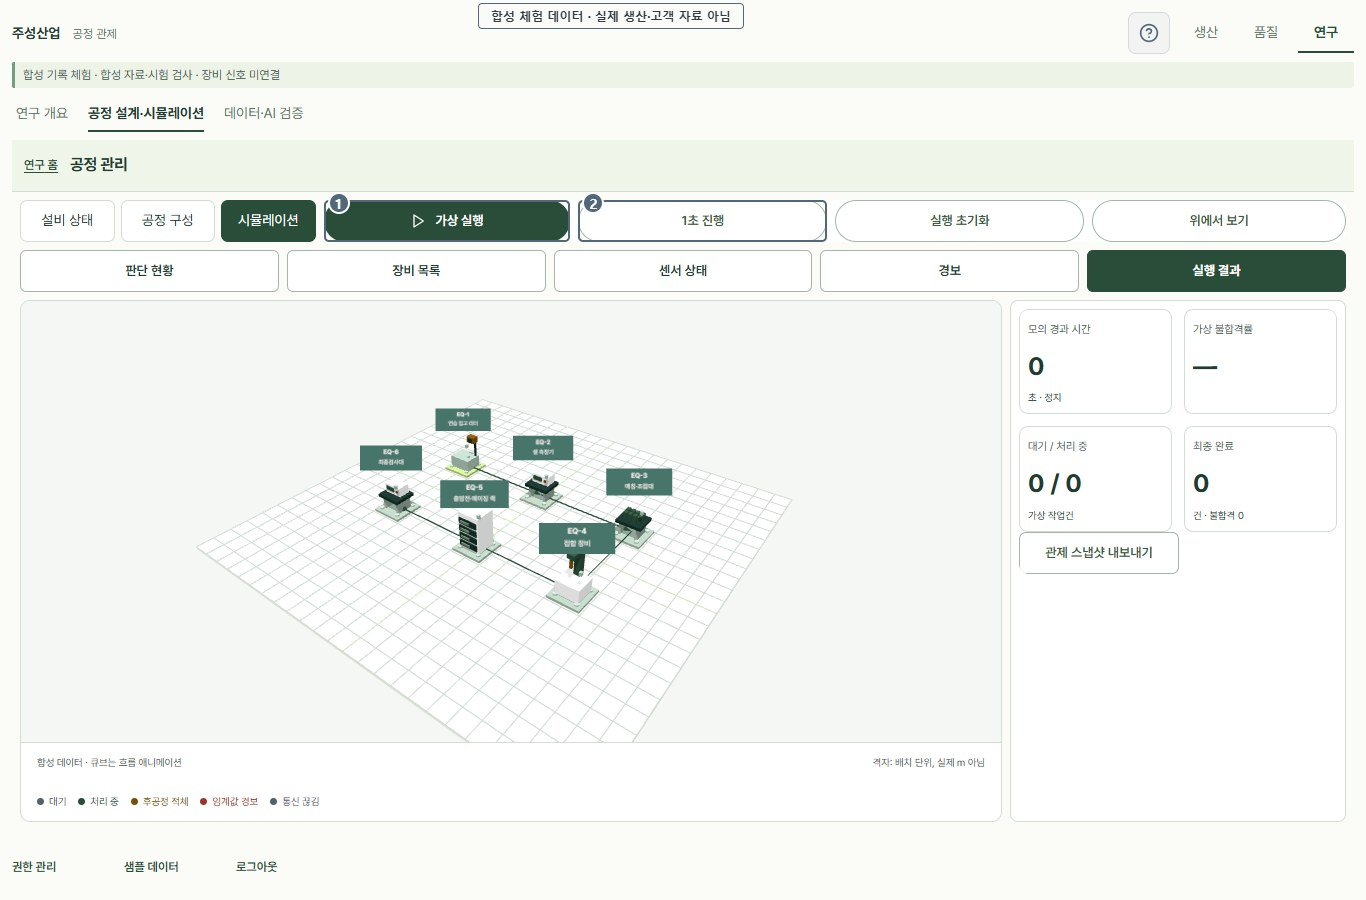
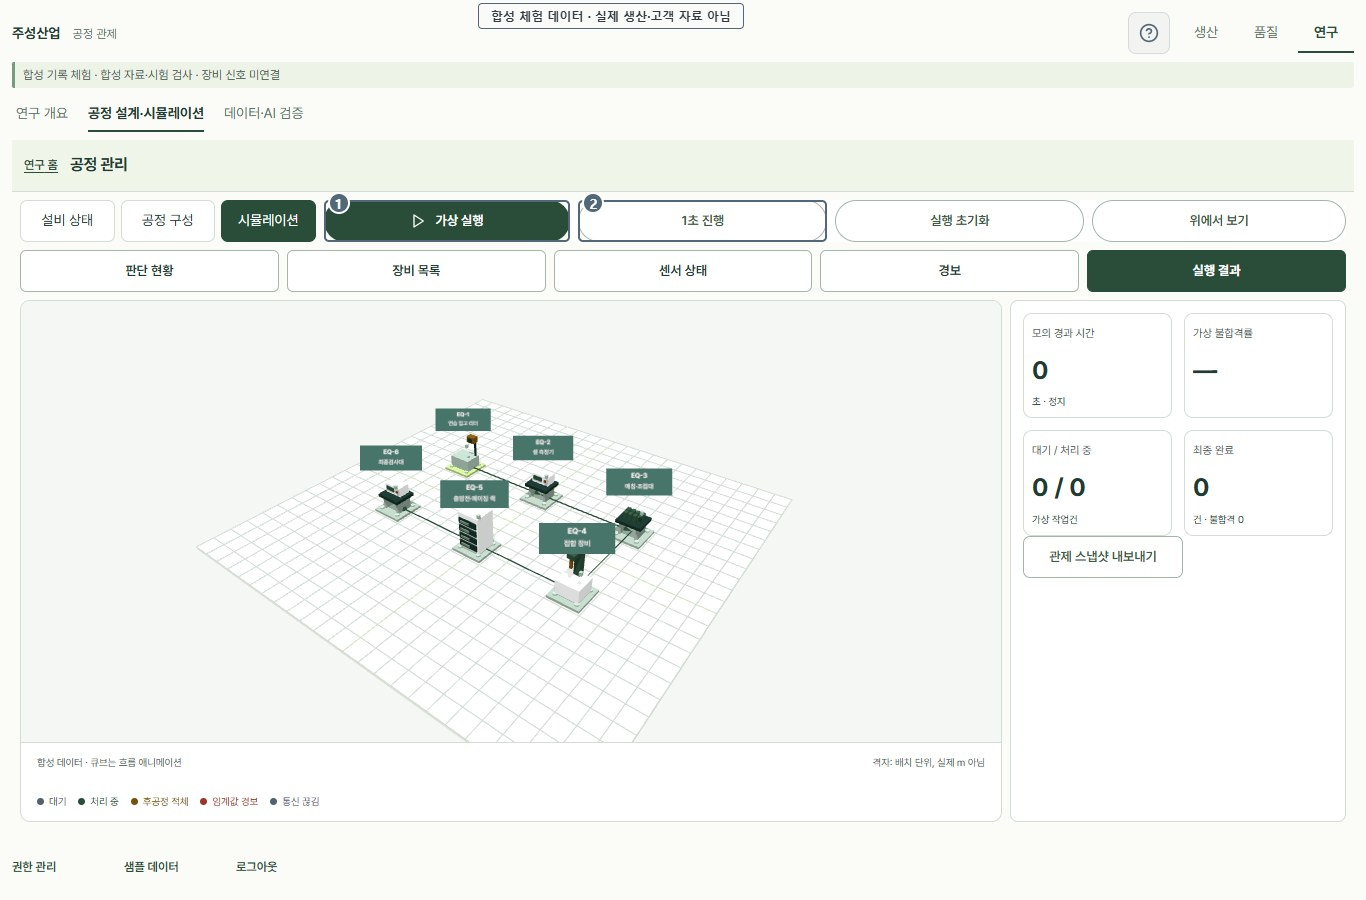
fix: prevent clipped inspector corners and align studio actions

diff --git a/src/twin-workspace.css b/src/twin-workspace.css
@@ -10,9 +10,9 @@
 .studio-tool-picker button { flex:1; }
 .studio-tool-picker button { min-width:0; }
 .studio-panels { flex:1; }
-.studio-panel { height:100%; overflow:auto; padding:var(--space-8); }
+.studio-panel { height:100%; overflow:auto; padding:12px; }
 .studio-panel[hidden] { display:none; }
-.studio-panel>.panel,.studio-panel>.panel>.panel { border:0; margin:0; }
+.studio-panel>.panel,.studio-panel>.panel>.panel { border:0; margin:0; border-radius:0; overflow:visible; }
 .studio-panel .section-head { padding:0 0 var(--space-8); }
 .studio-panel .section-head h2 { font-size:var(--font-size-13); }
 .studio-panel .section-head:not(:has(button)) { display:none; }
@@ -84,3 +84,21 @@
 .twin-studio { overflow:auto; }
 .twin-studio .twin-actions { grid-template-columns:repeat(auto-fit,minmax(min(100%,140px),1fr)); }
 .twin-studio .twin-actions > button,.twin-studio .twin-import { word-break:keep-all; overflow-wrap:normal; }
+
+/* The inspector owns its rounded frame; inner panels must not clip controls. */
+.console-task-body .studio-panel .section-head { flex-direction:column; align-items:stretch; gap:12px; }
+.studio-panel .section-head > button { width:100%; }
+.studio-panel .twin-actions { align-items:stretch; gap:8px; }
+.studio-panel .twin-actions > button { height:100%; }
+.operations-console .studio-panel .twin-actions > .file-picker { width:100%; }
+.operations-console .studio-panel .twin-actions > .file-picker > button { flex:1; }
+.studio-panel .twin-library-items { grid-auto-rows:minmax(48px,auto); }
+.studio-panel .twin-help { margin:12px 0 0; }
+.studio-panel .editor-tabs { margin-bottom:12px; }
+.studio-panel .editor-actions { margin-top:16px; }
+
+.studio-panel .twin-actions:has(> .file-picker) { grid-template-columns:1fr; grid-auto-rows:minmax(48px,auto); }
+.studio-panel .twin-panel-body > form { display:grid; gap:16px; }
+.studio-panel .twin-panel-body > form > label,
+.studio-panel .twin-panel-body > form > p { margin:0; }
+.studio-panel .twin-panel-body > form > button { width:100%; }

diff --git a/tests/design.spec.ts b/tests/design.spec.ts
@@ -79,3 +79,14 @@ test('expanded field reference leaves customer import reachable',async({page})=>
  const upload=page.getByRole('button',{name:'고객 측정 파일 가져오기',exact:true});await upload.scrollIntoViewIfNeeded();await expect(upload).toBeInViewport();
  await page.screenshot({path:'.local/spacing-expanded-evidence-scroll.png'});
 });
+
+for(const width of [1366,1024,390])test('studio tools retain clear edges and aligned actions at '+width,async({page})=>{
+ await page.setViewportSize({width,height:900});await page.goto('/batt/');await page.getByRole('button',{name:'샘플 데이터로 체험하기'}).click();await navigate(page,'공정 관리');
+ for(const tab of ['장비 블록','선택 장비 · 데이터 정의','저장·가져오기','공정 검토 요청']){
+  await step(page,tab);const panel=page.locator('.studio-panel:visible');
+  const edges=await panel.evaluate(el=>{const r=el.getBoundingClientRect();return [...el.querySelectorAll('button')].filter(e=>e.getBoundingClientRect().width>0).map(e=>{const b=e.getBoundingClientRect();return {left:b.left-r.left,right:r.right-b.right};});});
+  for(const edge of edges){expect(edge.left).toBeGreaterThanOrEqual(11);expect(edge.right).toBeGreaterThanOrEqual(11);}
+  if(tab==='저장·가져오기'){const boxes=await panel.locator('.twin-actions > button').evaluateAll(es=>es.map(e=>{const r=e.getBoundingClientRect();return {top:r.top,height:r.height};}));expect(Math.abs(boxes[0].height-boxes[1].height)).toBeLessThanOrEqual(1);expect(boxes[1].top-boxes[0].top-boxes[0].height).toBeGreaterThanOrEqual(8);}
+  await panel.screenshot({path:'.local/studio-'+tab+'-'+width+'.png'});
+ }
+});
